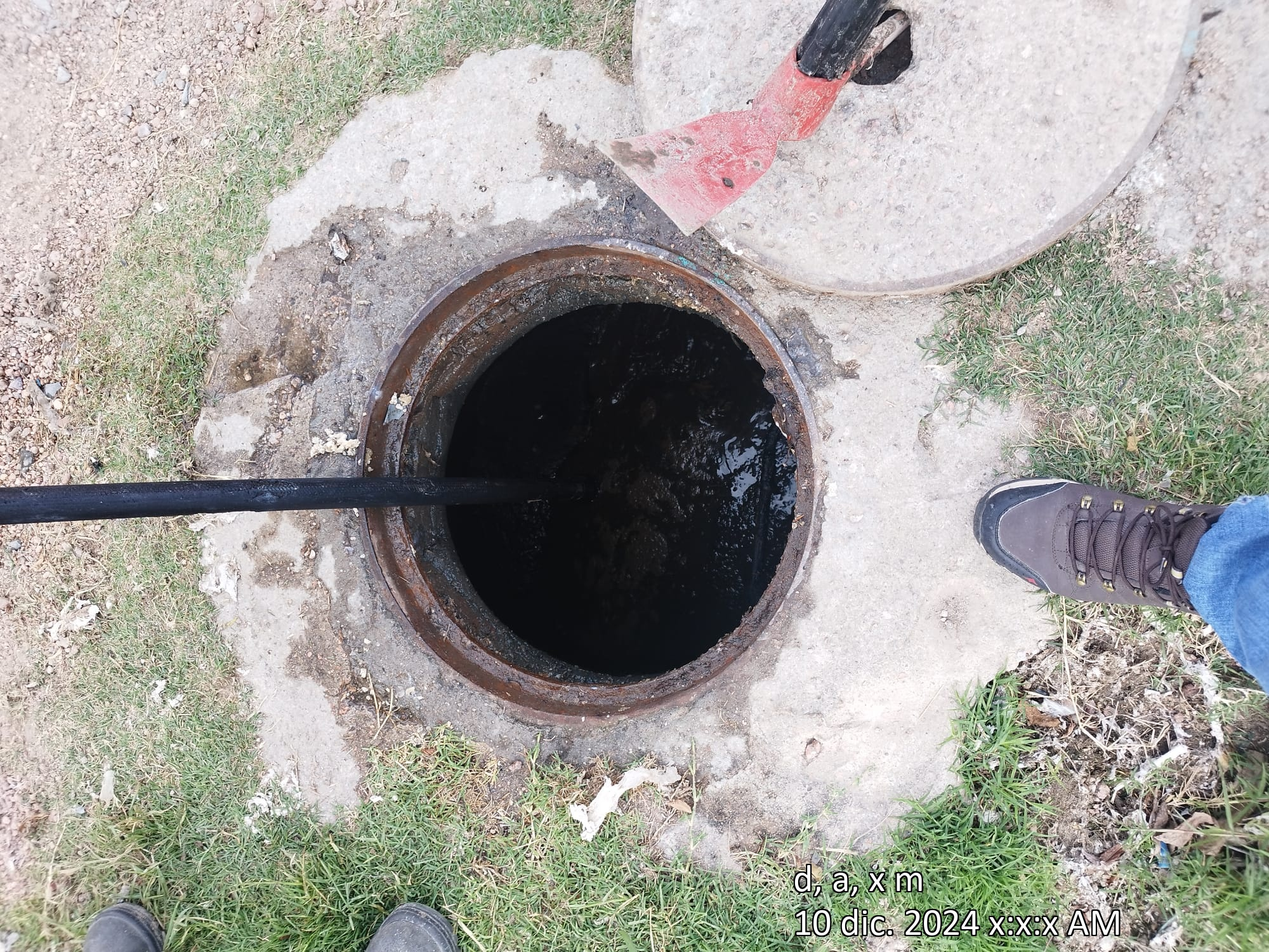
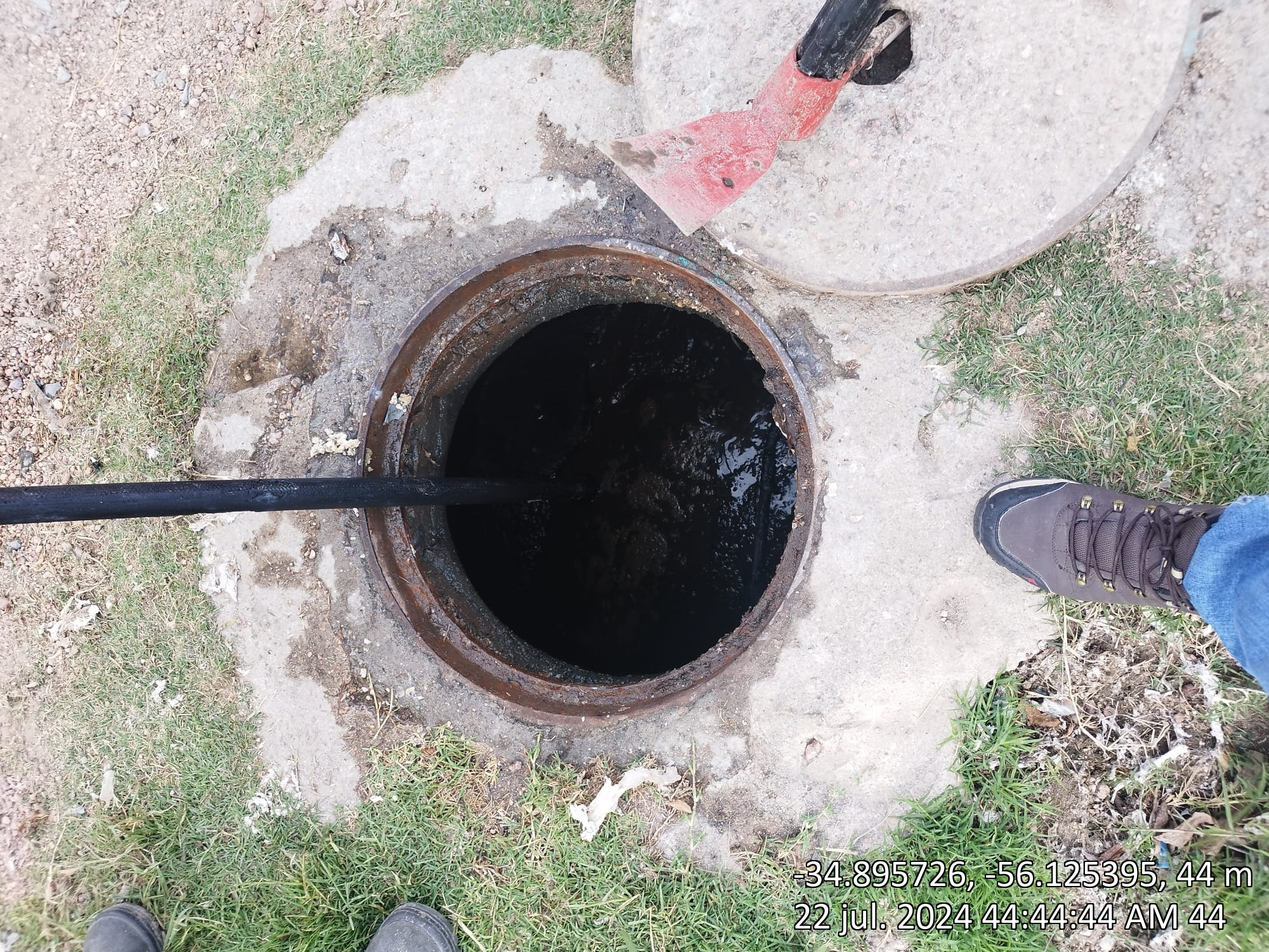
Agrego calendario

Changed region(s): [[0.62, 0.8893, 0.992, 0.9813]]

diff --git a/funciones.py b/funciones.py
@@ -27,23 +27,65 @@ def abrir_imagenes_en_carpeta(ruta_carpeta):
 def agregar_texto_con_contorno(imagen, coordenadas_metros, fecha, fuente_path, tamano_fuente=60, color_texto=(255, 255, 255), color_contorno=(0, 0, 0), desplazamiento_contorno=2):
     """
     Agrega texto con contorno en la esquina inferior derecha de la imagen utilizando Pillow.
+
+    Args:
+        imagen (numpy.ndarray): Imagen sobre la que se agregará texto.
+        coordenadas_metros (str): Texto con coordenadas y metros.
+        fecha (str): Fecha a agregar.
+        fuente_path (str): Ruta al archivo de fuente personalizada (.ttf o .otf).
+        tamano_fuente (int): Tamaño de la fuente. Por defecto, 1.
+        color_texto (tuple): Color del texto en formato RGB.
+        color_contorno (tuple): Color del contorno del texto (por defecto, negro).
+        desplazamiento_contorno (int): Desplazamiento del contorno, para que se dibuje alrededor del texto.
+
+    Returns:
+        numpy.ndarray: Imagen con el texto y el contorno agregado.
     """
     try:
+        # Convertir la imagen de OpenCV a Pillow
         imagen_pil = Image.fromarray(cv2.cvtColor(imagen, cv2.COLOR_BGR2RGB))
         draw = ImageDraw.Draw(imagen_pil)
+        
+        # Cargar la fuente personalizada
         fuente = ImageFont.truetype(fuente_path, tamano_fuente)
 
+        # Calcular el tamaño del texto para ajustar el espacio entre las líneas
         ancho_imagen, altura_imagen = imagen_pil.size
         x = ancho_imagen - 750
-        y = altura_imagen - 100
+        y = altura_imagen - 10
 
-        draw.text((x, y), coordenadas_metros, font=fuente, fill=color_contorno)
-        draw.text((x, y), coordenadas_metros, font=fuente, fill=color_texto)
-        y -= 50
-        draw.text((x, y), fecha, font=fuente, fill=color_contorno)
+        # Obtener el tamaño del texto usando textbbox (bounding box)
+        bbox_fecha = draw.textbbox((x, y), fecha, font=fuente)
+        bbox_coordenadas = draw.textbbox((x, y), coordenadas_metros, font=fuente)
+
+        # Desplazar el texto hacia arriba dependiendo del tamaño de cada línea
+        y -= bbox_fecha[3] - bbox_fecha[1] + 20  # Espacio después de la fecha
+
+        # Dibujar el contorno negro alrededor del texto (en varias direcciones)
+        for dx in [-desplazamiento_contorno, 0, desplazamiento_contorno]:
+            for dy in [-desplazamiento_contorno, 0, desplazamiento_contorno]:
+                if dx != 0 or dy != 0:  # No dibujar el contorno en el centro
+                    draw.text((x + dx, y + dy), fecha, font=fuente, fill=color_contorno)
+        
+        # Ahora dibujar el texto principal en blanco sobre el contorno
         draw.text((x, y), fecha, font=fuente, fill=color_texto)
 
-        return cv2.cvtColor(np.array(imagen_pil), cv2.COLOR_RGB2BGR)
+        # Desplazar para la siguiente línea (coordenadas)
+        y -= bbox_coordenadas[3] - bbox_coordenadas[1] + 20  # Espacio después de las coordenadas
+
+        # Dibujar el contorno negro alrededor del texto de las coordenadas
+        for dx in [-desplazamiento_contorno, 0, desplazamiento_contorno]:
+            for dy in [-desplazamiento_contorno, 0, desplazamiento_contorno]:
+                if dx != 0 or dy != 0:
+                    draw.text((x + dx, y + dy), coordenadas_metros, font=fuente, fill=color_contorno)
+
+        # Ahora dibujar el texto principal en blanco sobre el contorno
+        draw.text((x, y), coordenadas_metros, font=fuente, fill=color_texto)
+
+        # Convertir la imagen de Pillow de vuelta a OpenCV
+        imagen_final = cv2.cvtColor(np.array(imagen_pil), cv2.COLOR_RGB2BGR)
+
+        return imagen_final
     except Exception as e:
         print(f"Error al agregar texto: {e}")
         return None

diff --git a/main.py b/main.py
@@ -1,4 +1,3 @@
-from calendar import Calendar
 import datetime
 from logging import root
 import os
@@ -8,6 +7,8 @@ import cv2
 import tkinter as tk
 
 from datetime import datetime
+
+from tkcalendar import *
 
 from tkintermapview import TkinterMapView
 from geopy.geocoders import Nominatim
@@ -76,9 +77,9 @@ def interfaz_principal():
     entry_metros = tk.Entry(frame_opciones)
     entry_metros.pack()
     
-    #tk.Label(frame_opciones, text="Fecha:").pack()
-    #cal = Calendar(root, selectmode="day", date_pattern="yyyy-mm-dd")
-    #cal.pack()
+    tk.Label(frame_opciones, text="Fecha:").pack()
+    cal = Calendar(frame_opciones, selectmode="day", date_pattern="yyyy-mm-dd")
+    cal.pack()
     
     # Campos de hora
     tk.Label(frame_opciones, text="Hora (HH:MM:SS AM/PM):").pack()
@@ -137,7 +138,7 @@ def interfaz_principal():
         lon = entry_longitud.get()
         metros = entry_metros.get()
         fecha = "2024-07-22"
-        #cal.get_date()
+        cal.get_date()
         hora = entry_hora.get()
         minutos = entry_minutos.get()
         segundos = entry_segundos.get()
@@ -154,7 +155,6 @@ def interfaz_principal():
 
             procesar_imagenes(lat, lon, metros, fecha_hora, hora)
             messagebox.showinfo("Éxito", "Las imágenes han sido procesadas correctamente.")
-            root.destroy()  # Cerrar la ventana principal
         else:
             print("Por favor completa todos los campos.")
 
